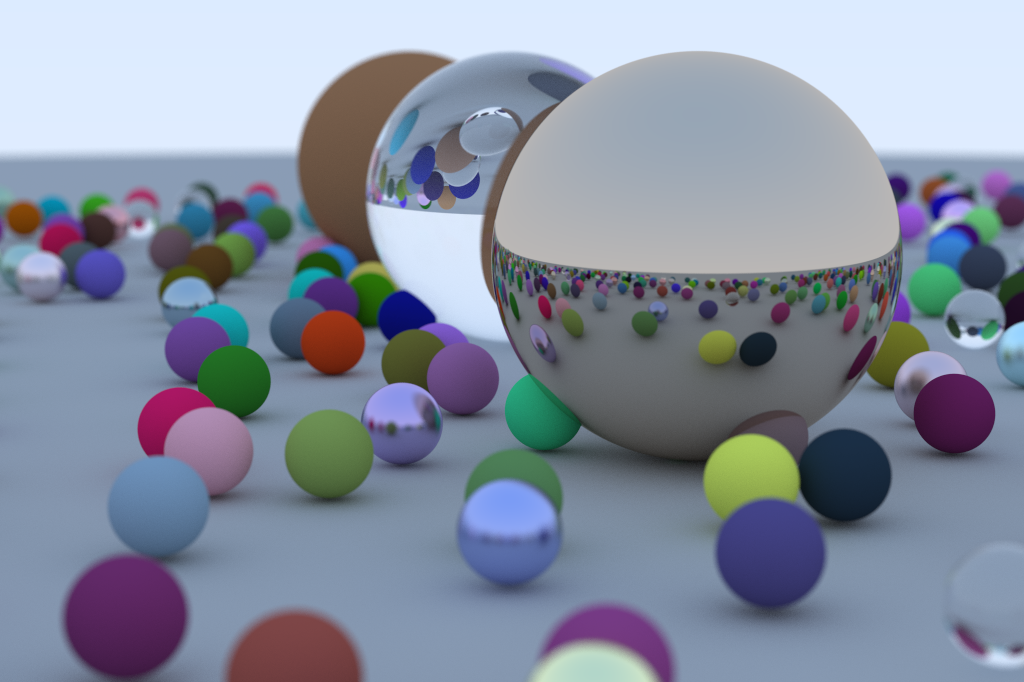
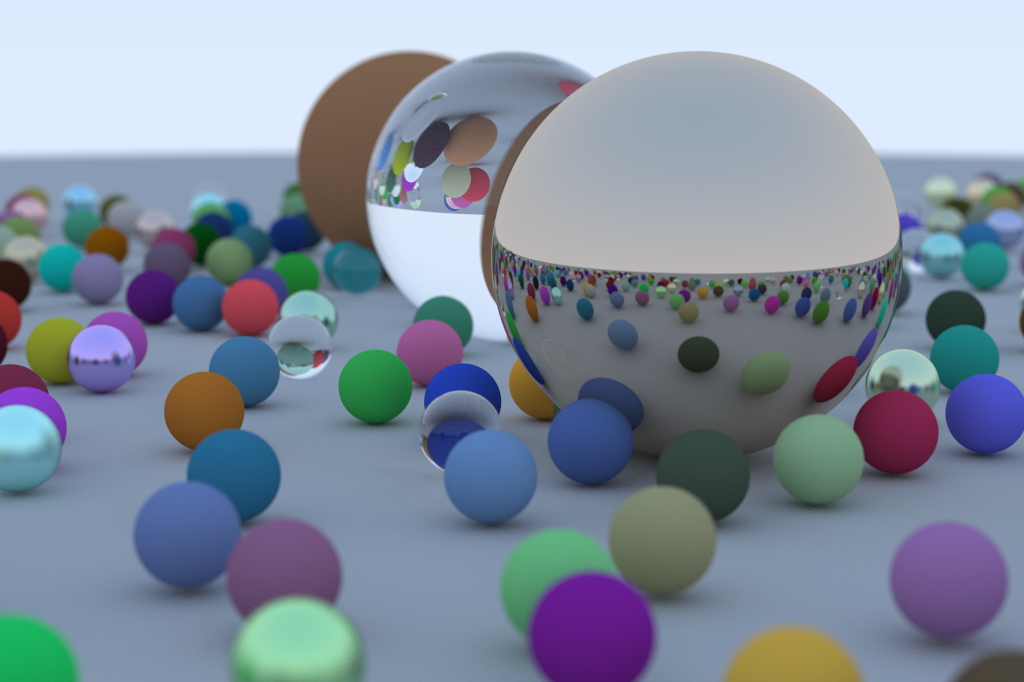
acceleration-datastructure-bvh
- updated random generator

diff --git a/src/tracer.rs b/src/tracer.rs
@@ -1,5 +1,5 @@
 use image::{Rgb, RgbImage};
-use indicatif::{ParallelProgressIterator, ProgressBar};
+use indicatif::{ParallelProgressIterator, ProgressBar, ProgressFinish, ProgressStyle};
 use rayon::prelude::*;
 use rand::prelude::*;
 
@@ -36,51 +36,60 @@ impl Tracer {
         if depth == 0 {
             return Color::new(0.0, 0.0, 0.0);
         }
-    
-        if let Some(rec) = world.hit(r, 0.001, f32::INFINITY) {
-            if let Some((attenuation, scattered)) = rec.mat.scatter(r, &rec) {
-                attenuation * self.ray_color(&scattered, world, depth - 1)
-            } else {
-                Color::new(0.0, 0.0, 0.0)
+
+        match world.hit(r,0.001, f32::INFINITY) {
+            Some(rec) => {
+                match rec.mat.scatter(r,&rec) {
+                    Some((attenuation, scattered)) => attenuation * self.ray_color(&scattered, world, depth - 1),
+                    None => Color::new(0.0, 0.0, 0.0),
+                }
+            },
+            None => {
+                let unit_direction = r.direction().normalize();
+                let t = 0.5 * (unit_direction.y + 1.0);
+                (1.0 - t) * Color::new(1.0, 1.0, 1.0) + t * Color::new(0.5, 0.7, 1.0)
             }
-        } else {
-            let unit_direction = r.direction().normalize();
-            let t = 0.5 * (unit_direction.y + 1.0);
-            (1.0 - t) * Color::new(1.0, 1.0, 1.0) + t * Color::new(0.5, 0.7, 1.0)
         }
     }
 
-    pub fn trace(&self, cam: &Camera, world: &World, bar: &ProgressBar ,max_depth: u32) {
-        
+    pub fn trace(&self, cam: &Camera, world: &World, max_depth: u32) {
+
+        let style = ProgressStyle::default_bar().template(
+            "{spinner:.green} [{wide_bar:.green/white}] {percent}% - {elapsed_precise} elapsed {msg}",
+        );
+        let progress_bar = ProgressBar::new((self.image_width * self.image_height) as u64);
+        progress_bar.set_style(style.unwrap().progress_chars("#>-"));
+
         match self.image_buffer.write() {
             Ok(mut locked_buffer) => {
                 locked_buffer
                     .par_enumerate_pixels_mut()
-                    .progress_with(bar.clone())                    
+                    .progress_with(progress_bar.clone())
                     .for_each(|( x, y,px_out)| {
 
                         let mut pixel_color = Color::new(0.0, 0.0, 0.0);
+                        let mut rng = rand::thread_rng();
 
-                        for _ in 0..self.samples_per_pixel {
-                            let mut rng = rand::thread_rng();
-            
-                            let random_u: f32 = rng.gen();
-                            let random_v: f32 = rng.gen();
-            
-                            let u = ((x as f32) + random_u) / ((self.image_width - 1) as f32);
-                            let v = 1.0 - (((y as f32) + random_v) / ((self.image_height - 1) as f32));
+                        // generate random samples
+                        let random_samples : Vec<(f32, f32)> = (0..self.samples_per_pixel)
+                            .map(|_| (rng.gen(), rng.gen()))
+                            .collect();
+
+                        for (random_U,random_V) in random_samples {
+
+                            let u = ((x as f32) + random_U) / ((self.image_width - 1) as f32);
+                            let v = 1.0 - (((y as f32) + random_V) / ((self.image_height - 1) as f32));
                             let ray = cam.get_ray(u, v); 
             
                             pixel_color += self.ray_color(&ray, &world, max_depth);                       
                         }
-
                         *px_out = Rgb(Util::gamma_correction(&pixel_color, self.samples_per_pixel));
                     });
             },
             Err(_) => panic!("Error locking the image buffer"),
         }
-    
-       }
+        progress_bar.with_finish(ProgressFinish::WithMessage("\nScene Rendering Completed.".into()));
+    }
 
     pub fn save(&self,image_path: &str, file_name: &str){
         let folder_creation = fs::create_dir_all(image_path);

diff --git a/src/main.rs b/src/main.rs
@@ -128,17 +128,9 @@ fn main() {
 
     let tracer = Tracer::new(IMAGE_WIDTH,IMAGE_HEIGHT,SAMPLES_PER_PIXEL);
 
-    let style = ProgressStyle::default_bar().template(
-        "{spinner:.green} [{wide_bar:.green/white}] {percent}% - {elapsed_precise} elapsed {msg}",
-    );  
-    let progress_bar = ProgressBar::new((IMAGE_WIDTH * IMAGE_HEIGHT) as u64);
-    progress_bar.set_style(style.unwrap().progress_chars("#>-"));
-    
-
     println!("Rendering Scene ...");
-    tracer.trace(&cam, &world, &progress_bar ,MAX_DEPTH);
+    tracer.trace(&cam, &world, MAX_DEPTH);
 
-    progress_bar.with_finish(ProgressFinish::WithMessage("\nScene Rendering Completed.".into()));       
-
+    println!("Saving Image ...");
     tracer.save(IMAGE_OUT_DIR, IMAGE_FILE_NAME);
 }

diff --git a/src/hit.rs b/src/hit.rs
@@ -26,7 +26,7 @@ impl<'a> HitRecord<'a> {
 } 
 
 /*
-    the following vector is of type World - is a triat object
+    the following vector is of type World - is a trait object
     it is a stand-in for any type inside a Box that implements
     the Hit trait.
 

diff --git a/src/utils/util.rs b/src/utils/util.rs
@@ -2,7 +2,6 @@ use glam::Vec3;
 use rand::prelude::*;
 use std::ops::Range;
 
-#[derive(Clone, Copy)]
 pub struct Util;
 
 pub type Point3 = Vec3; // give a new name to the existing type
